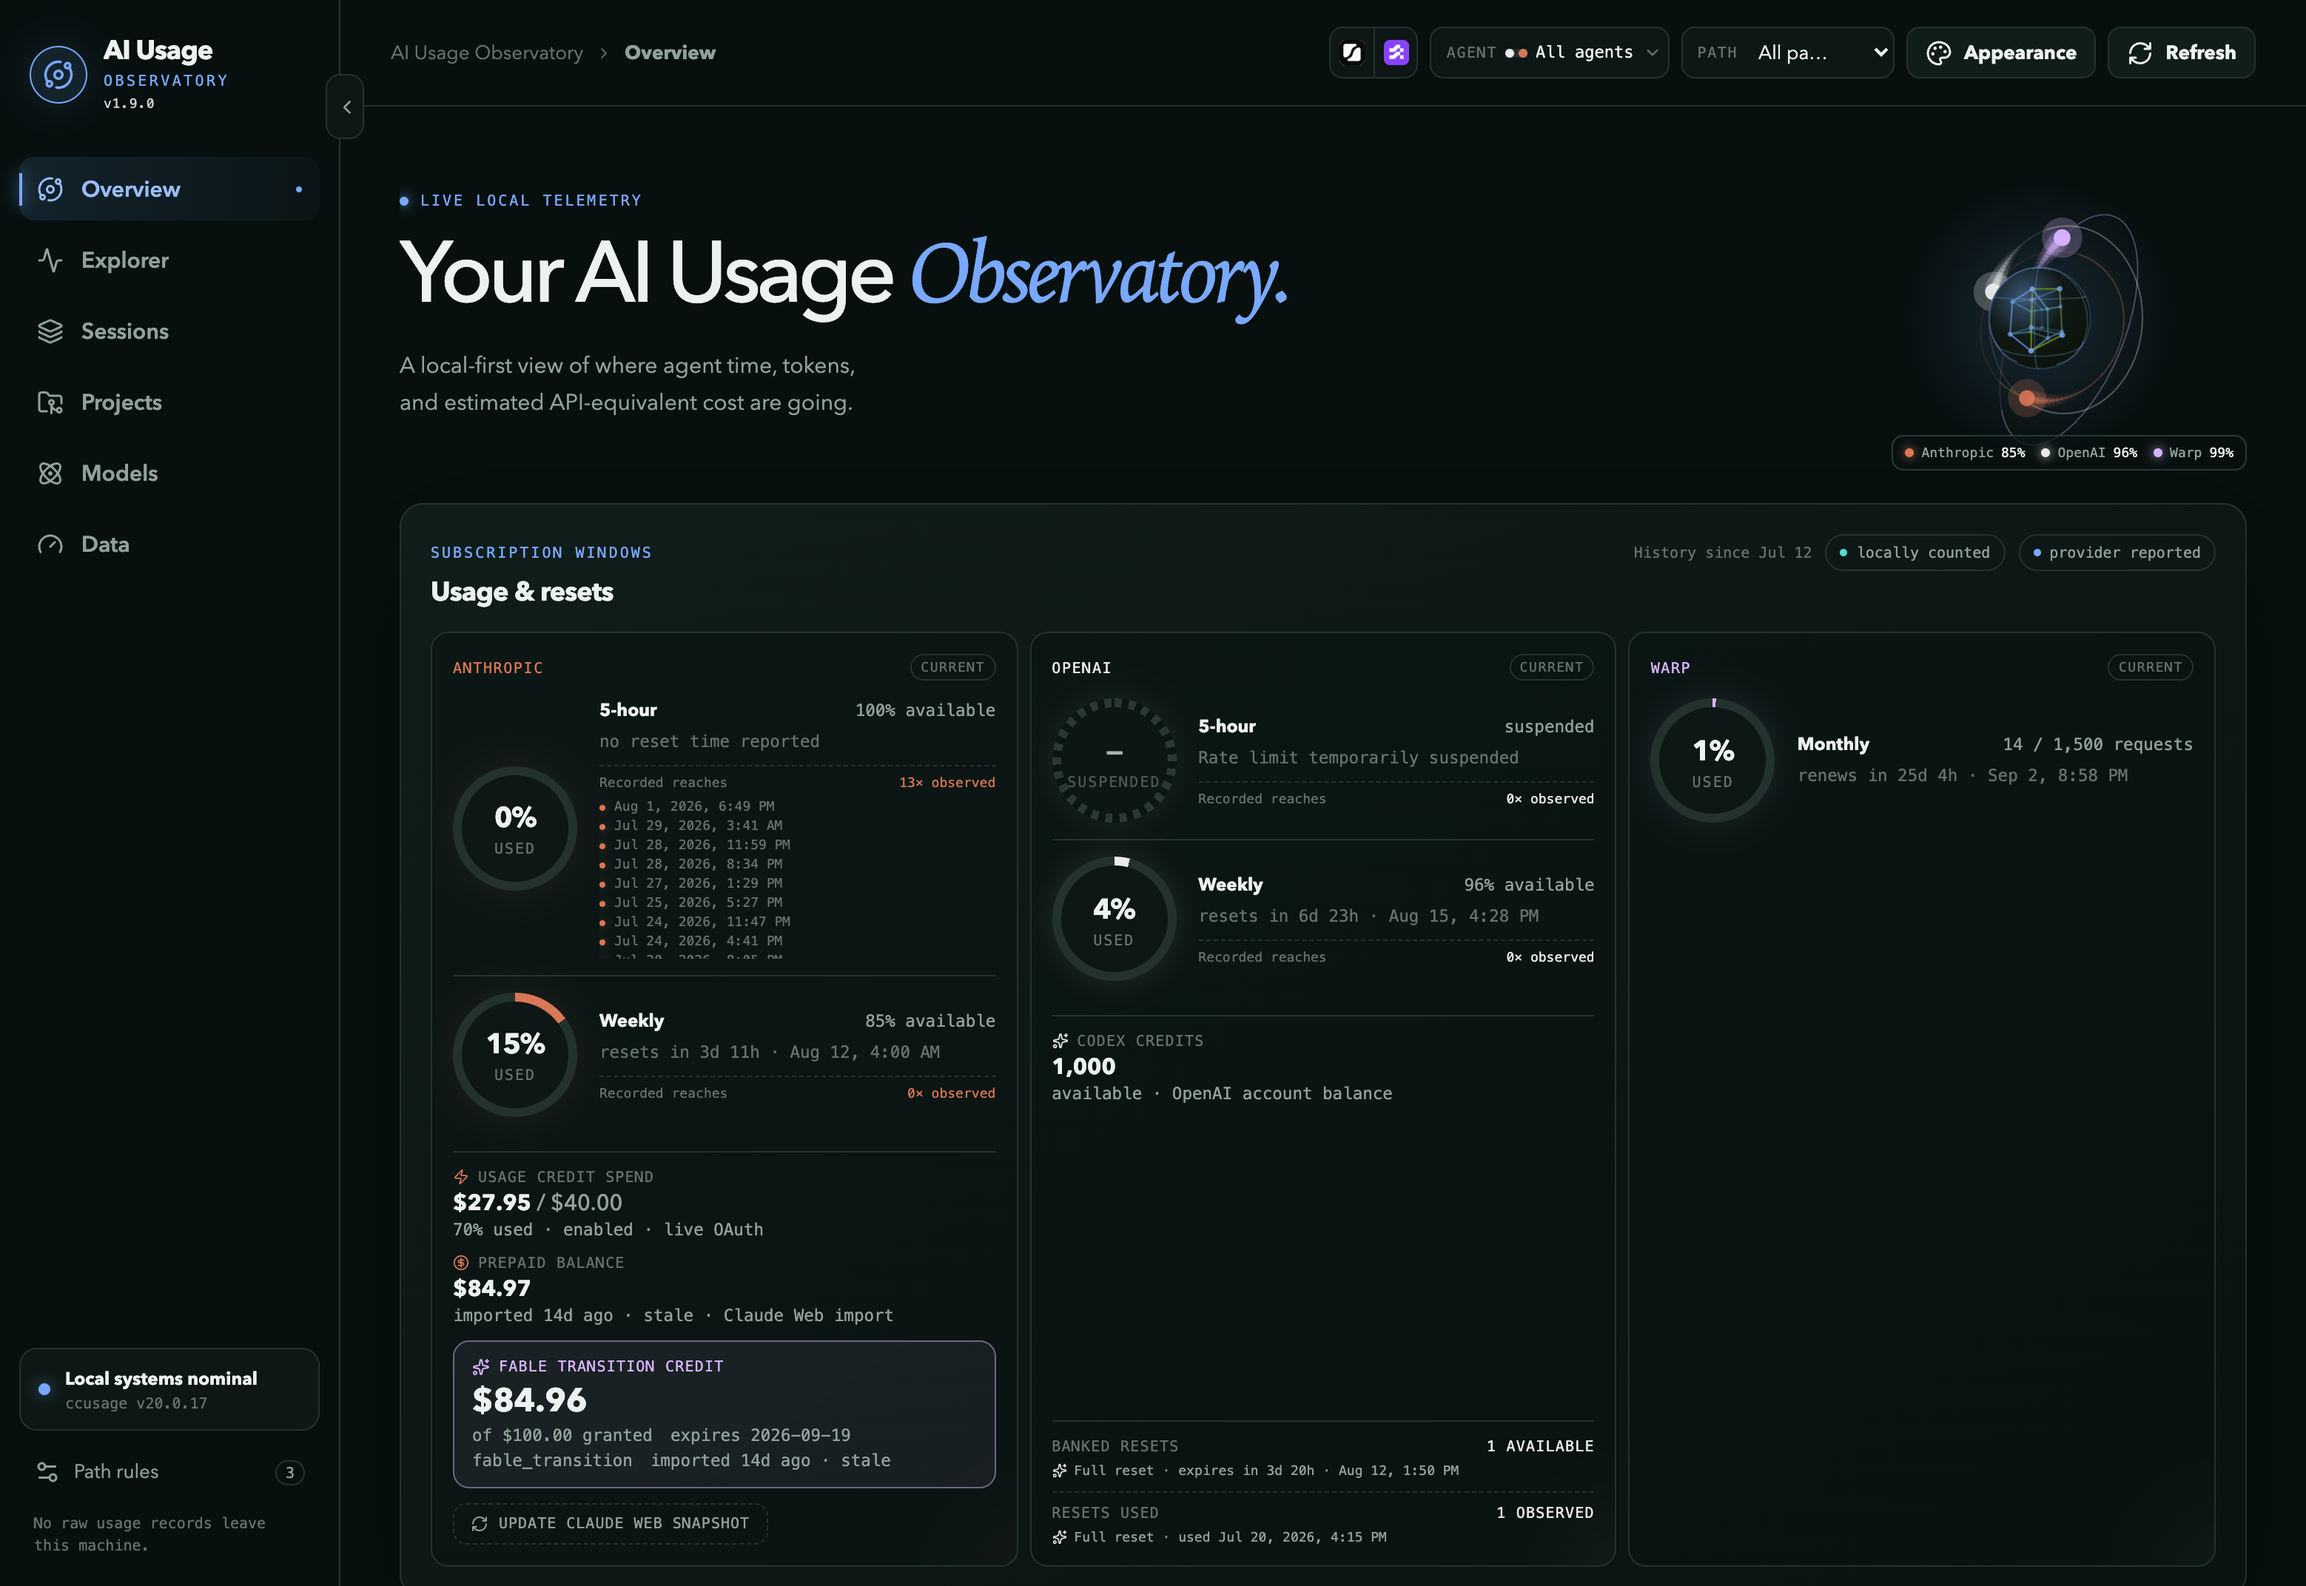
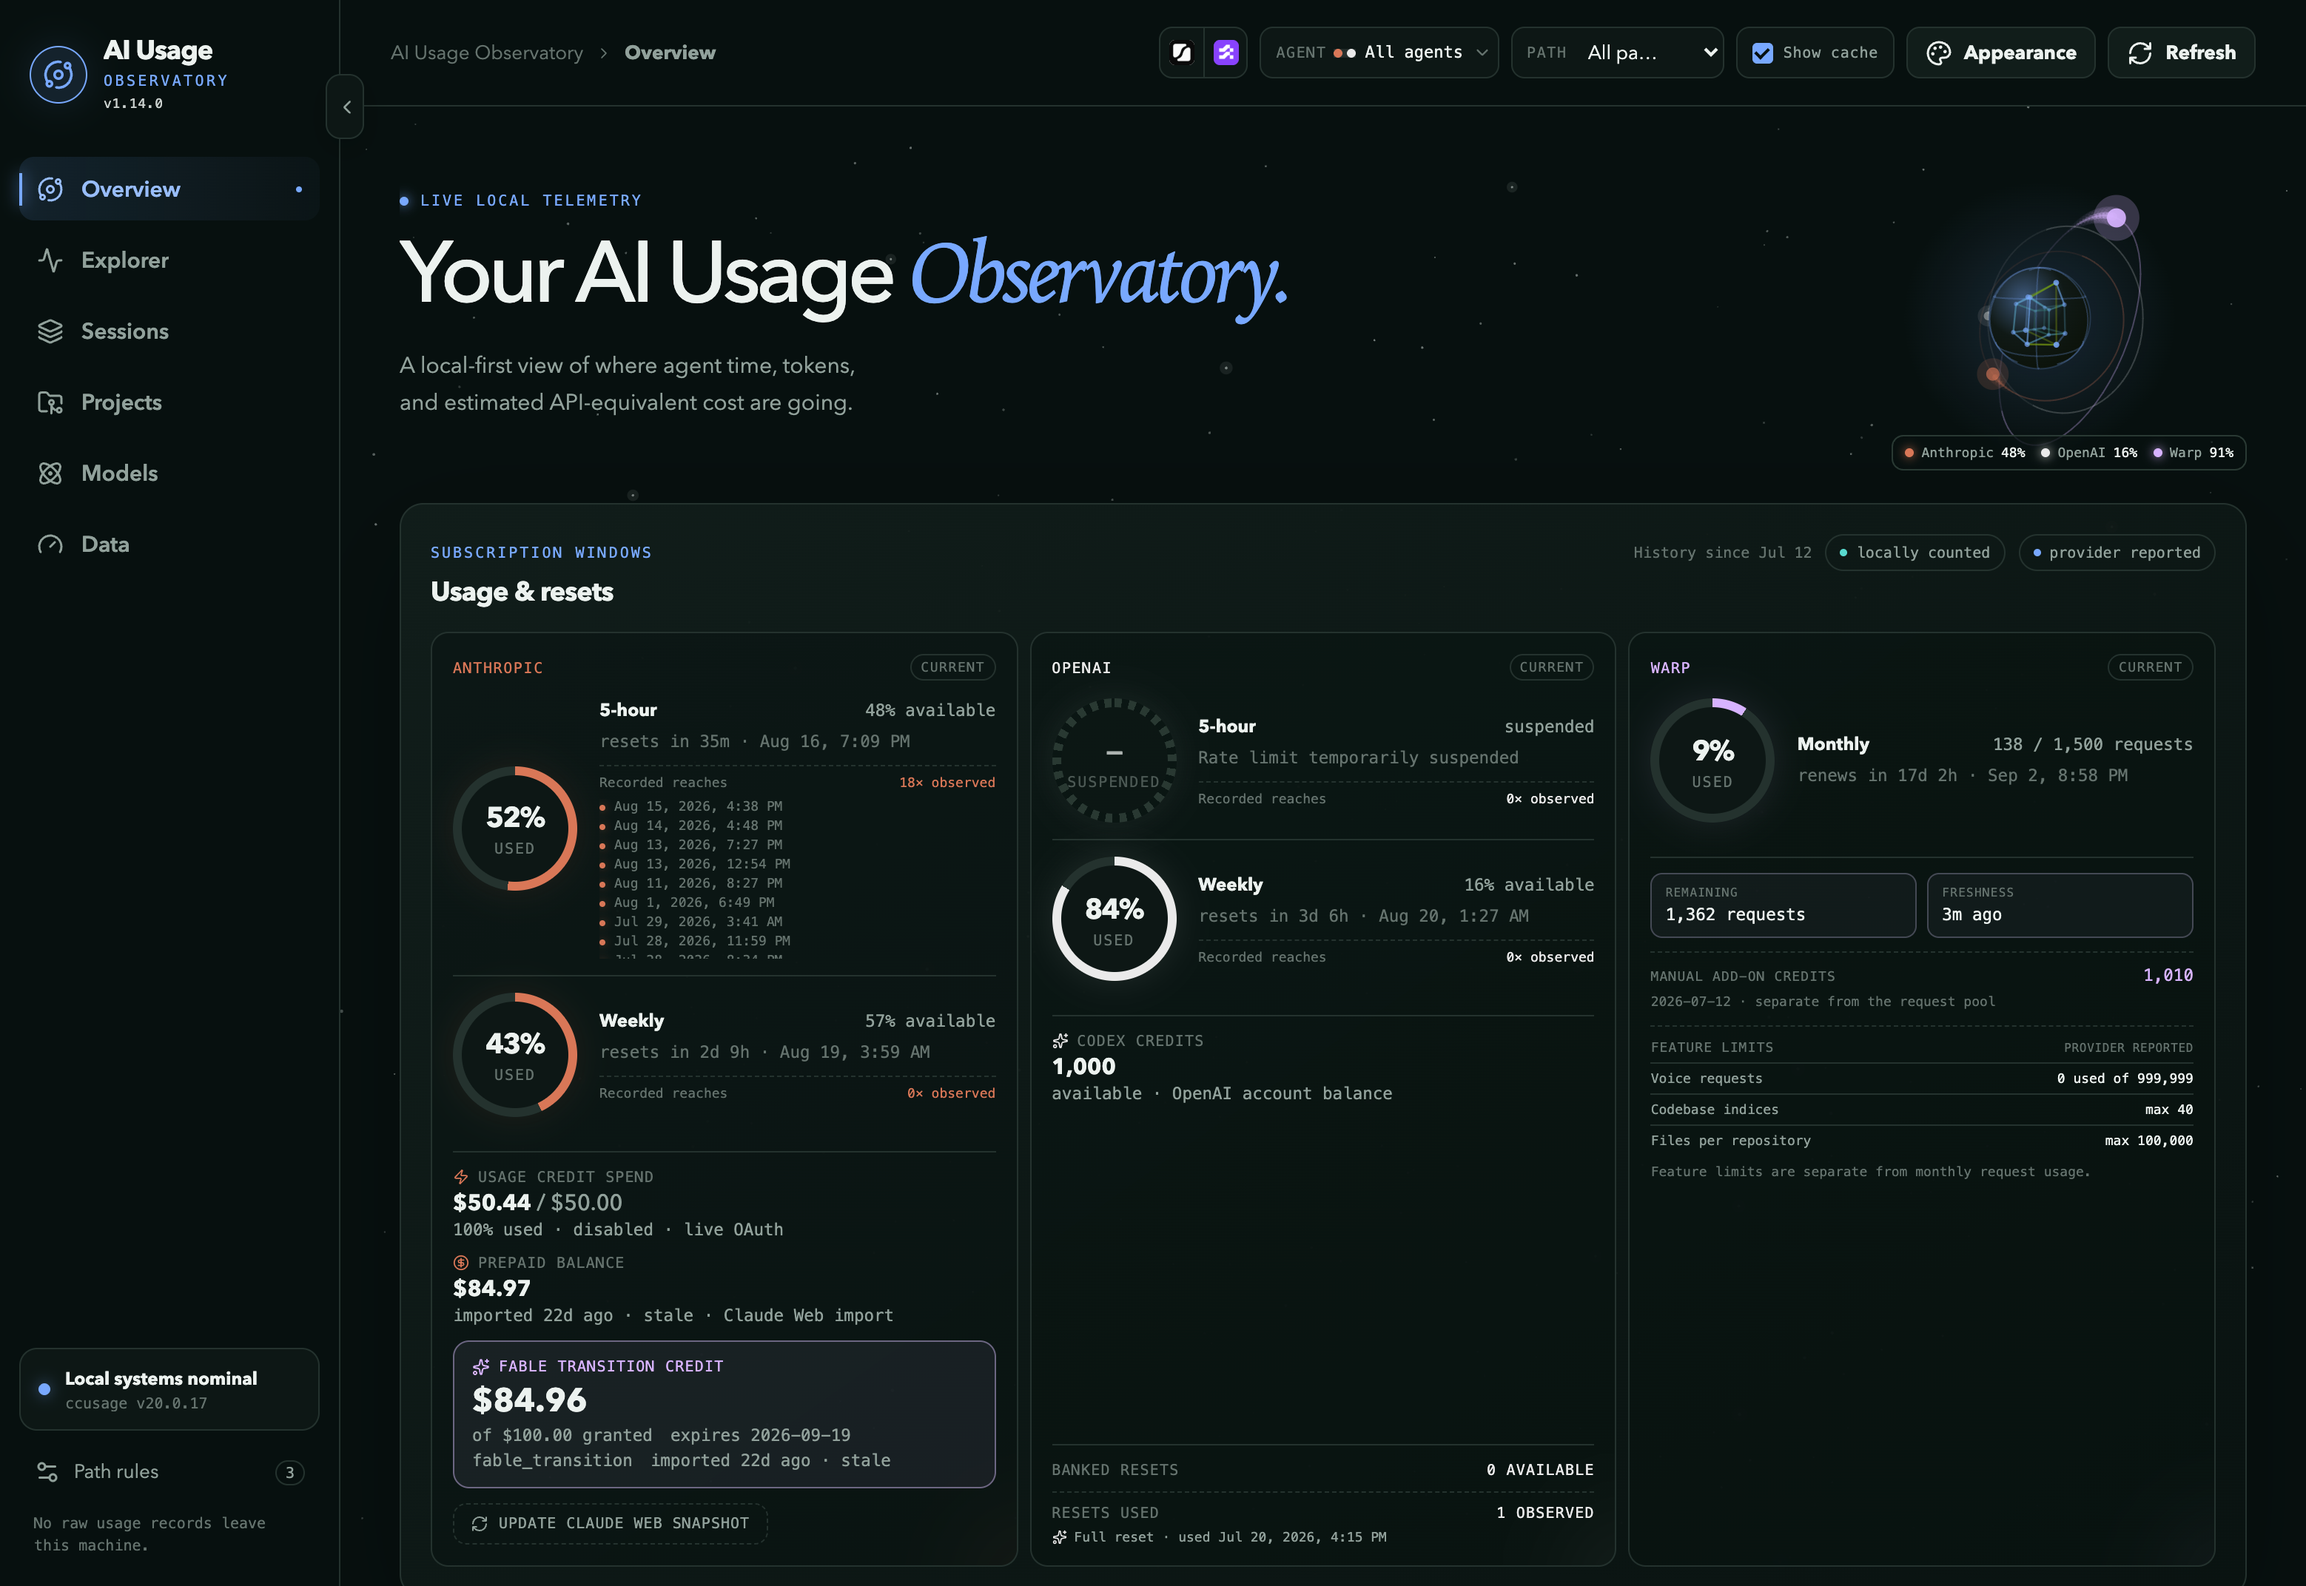
chore(release): prepare v1.14.0

diff --git a/CHANGELOG.md b/CHANGELOG.md
@@ -5,6 +5,38 @@ All notable changes to AI Usage Observatory are documented in this file.
 The format is based on [Keep a Changelog](https://keepachangelog.com/en/1.1.0/),
 and this project follows [Semantic Versioning](https://semver.org/spec/v2.0.0.html).
 
+## [1.14.0] - 2026-08-16
+
+### Added
+
+- Read Warp's local session data so Warp usage is attributed to projects,
+  sessions, paths, and models alongside the other providers, rather than
+  appearing only as provider-reported totals.
+- Enrich the Warp subscription quota card with the plan's request allowance,
+  usage, headroom, and refresh timing.
+- Add per-slice averages to the dashboard metric breakdowns, so each slice
+  reports its typical value beside its total.
+- Add a shared page-jump control to paged lists. Three or more pages get a
+  numeric field and a listbox of every page; two or fewer stay static.
+
+### Changed
+
+- Extract the orrery's hypercube into a single canonical tesseract and use it
+  for the boot loader and the paginator's pending state, honoring the
+  "Tesseract core" appearance setting. With the setting off they fall back to
+  the telescope orbit and the refresh spinner, and reduced motion holds the
+  glyph on one frame.
+- Refresh the README screenshot gallery for the Overview, Sessions, Projects,
+  and Models views.
+
+### Fixed
+
+- Suppress the activity tooltip on days with no recorded usage, which
+  previously rendered a card holding nothing but a date.
+- Correct tesseract styling when an inherited accent color arrives as `rgb()`
+  instead of hex, and draw the canvas on mount instead of leaving it blank
+  until the first animation frame.
+
 ## [1.13.0] - 2026-08-16
 
 ### Added
@@ -381,6 +413,7 @@ and this project follows [Semantic Versioning](https://semver.org/spec/v2.0.0.ht
 - Correct path- and date-filtered totals, session extraction, navigation and
   modal behavior, project controls, and accessibility focus states.
 
+[1.14.0]: https://github.com/anobjectn/ai-usage-observatory/compare/v1.13.0...v1.14.0
 [1.13.0]: https://github.com/anobjectn/ai-usage-observatory/compare/v1.12.0...v1.13.0
 [1.12.0]: https://github.com/anobjectn/ai-usage-observatory/compare/v1.11.2...v1.12.0
 [1.11.2]: https://github.com/anobjectn/ai-usage-observatory/compare/v1.11.1...v1.11.2

diff --git a/README.md b/README.md
@@ -1,6 +1,6 @@
 # AI Usage Observatory
 
-![Version](https://img.shields.io/badge/version-1.13.0-0f766e)
+![Version](https://img.shields.io/badge/version-1.14.0-0f766e)
 ![Runtime](https://img.shields.io/badge/runtime-Bun%201.3%2B-fbf0df?logo=bun&logoColor=black)
 ![Language](https://img.shields.io/badge/language-TypeScript-3178C6?logo=typescript&logoColor=white)
 ![Privacy](https://img.shields.io/badge/privacy-local--first%20%26%20no%20telemetry-0f766e)
